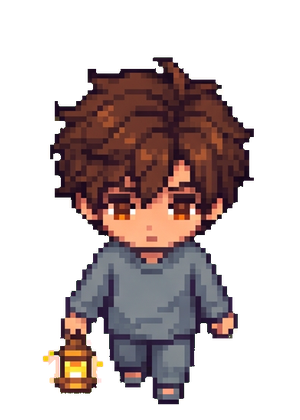
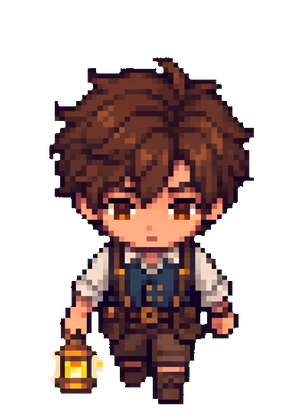
어린 이안 탐색 그림: 잠옷 대신 평소 옷(셔츠·조끼·멜빵)으로 다시 생성

diff --git a/CLAUDE.md b/CLAUDE.md
@@ -9,7 +9,7 @@
   2. ~~탐색 걷기 순간이동~~ → 2026-11-06 플레이 모드로 확인: 어린 이안 그림 16장 모두 로드, 한 칸 걷는 동안 진행도가 매 프레임 조금씩 올라가고 0.25·0.5·0.75 지점에서 칸 사이에 그려짐(걷기 그림도 바뀜). 키를 누르는 실제 조작감은 사용자가 직접 봐야 함.
   3. 채굴 손맛(어둠 2·작은 결정 3·큰 결정 4번 두드림, `ExploreUI.DigHits`/`DigInterval`). 일반 탐색 전체에 적용됨 — 너무 느리면 줄이기. → 2026-11-06 플레이 모드로 동작 확인: 횟수 2·3·4 맞음, 타격마다 멈칫(0.045초, 깰 때 0.09초)·간격 0.17초, 효과음 dig·dig_crystal·gem_in 로드, 어둠 칸 금빛 금 잘 보임, 결정 깨면 +15/+40과 조각이 몽결정 숫자로 날아감. 결정 위 금은 보라색이라 묻혀서 → 흰 금 + 짙은 남보라 테두리로 바꿈(`DrawDigCell`), 1초 뒤에도 잘 보임 확인. 손맛(속도·소리)은 사용자가 직접 판단.
   4. 문·깨어남 장면(눈꺼풀 연출, chain·blanket 소리), 대사창·툴팁 모양. → 2026-11-06 플레이 모드로 확인: 대사창·WASD 툴팁 정상, 문 모드 → 문 칸 도착 → prologue_wake 10줄 → 메인 흐름 정상, 오류 없음, chain·blanket 로드, 암전·눈뜨기 연출 정상(흔들림은 0.6초라 사진으로 못 잡음). **문제 2개(사용자 결정 대기)**: ① 문 모드 탐색에서 문이 안 보임 — 방 배경 그림의 자물쇠 문이 출현 칸(19,0) 자리에 있는데 밝힌 바닥 타일·위쪽 어둠에 덮임. ② 08 장면(침대에 앉은 이안)에 초상화(왼쪽 이안, 오른쪽 도하 인형)가 삽화 위에 겹쳐 나옴 — 기획 참고 그림(reference/08)엔 초상화 없음 → 대본 08 줄에 `초상화없음`을 넣으면 해결.
-- 2026-11-06 사용자 피드백(어린 이안 탐색 걷기): 오른쪽은 다리 대신 전등만 움직이고, 왼쪽은 가끔 오른쪽 보는 그림이 나옴 → 원본 시트 옆모습 줄이 엉망(왼쪽 4번째 칸이 오른쪽을 봄, 오른쪽 줄은 다리가 같고 전등이 손을 옮겨 다님). 임시로 왼쪽 0·1번 칸만 번갈아 쓰고 오른쪽은 좌우 뒤집기(`build_ian_sprites.py child`에도 반영). 다리 움직임은 아직 작음 → 옆모습 걷기를 다시 생성할지, 잠옷 차림을 바꿀지 사용자 결정 대기.
+- 2026-11-06 사용자 피드백(어린 이안 탐색 걷기): 오른쪽은 다리 대신 전등만 움직이고, 왼쪽은 가끔 오른쪽 보는 그림이 나옴 → 원본 시트 옆모습 줄이 엉망(왼쪽 4번째 칸이 오른쪽을 봄, 오른쪽 줄은 다리가 같고 전등이 손을 옮겨 다님). 임시로 왼쪽 0·1번 칸만 번갈아 쓰고 오른쪽은 좌우 뒤집기(`build_ian_sprites.py child`에도 반영). 사용자 요청으로 잠옷 → 이안 평소 옷(셔츠·조끼·멜빵)으로 다시 생성(Nano Banana 2.1 2K, 125크레딧, 남은 약 5,475): 새 시트 `ian_child_pixel_sheet.png`, 옛 잠옷 시트는 `ian_child_pajama_sheet.png`. 새 시트도 옆모습 줄은 옛 시트 자세를 그대로 따라 해서(같은 문제) 위 임시 처리 유지, 다리 움직임은 여전히 작음. 어른 이안 시트도 왼쪽 4번째 칸이 오른쪽을 봄(아직 안 고침). 맥에서 그림 스크립트는 scratchpad venv(pillow·numpy·scipy)로 돌림.
 - Unity CLI 연결됨(Mac). 에디터 확인이 필요한 일은 Mac에서 도는 세션(또는 Mac 폴더에 연결된 세션)에서 `unity status`부터. 아래 "Unity CLI 연결" 기록 참고.
 - 작업 규칙: main에 바로 커밋·푸시, 커밋 작성자 `jun-FE <craftttime@gmail.com>`, 메시지 끝에 Co-Authored-By 줄. 커밋·문서에 모델 이름 금지. 키·토큰은 채팅에 붙이지 않게.
 - Artlist 크레딧 약 5,600(2026-11-05 기준, 11일 충전). 생성 전 비용 먼저 알리고 승인받기.
